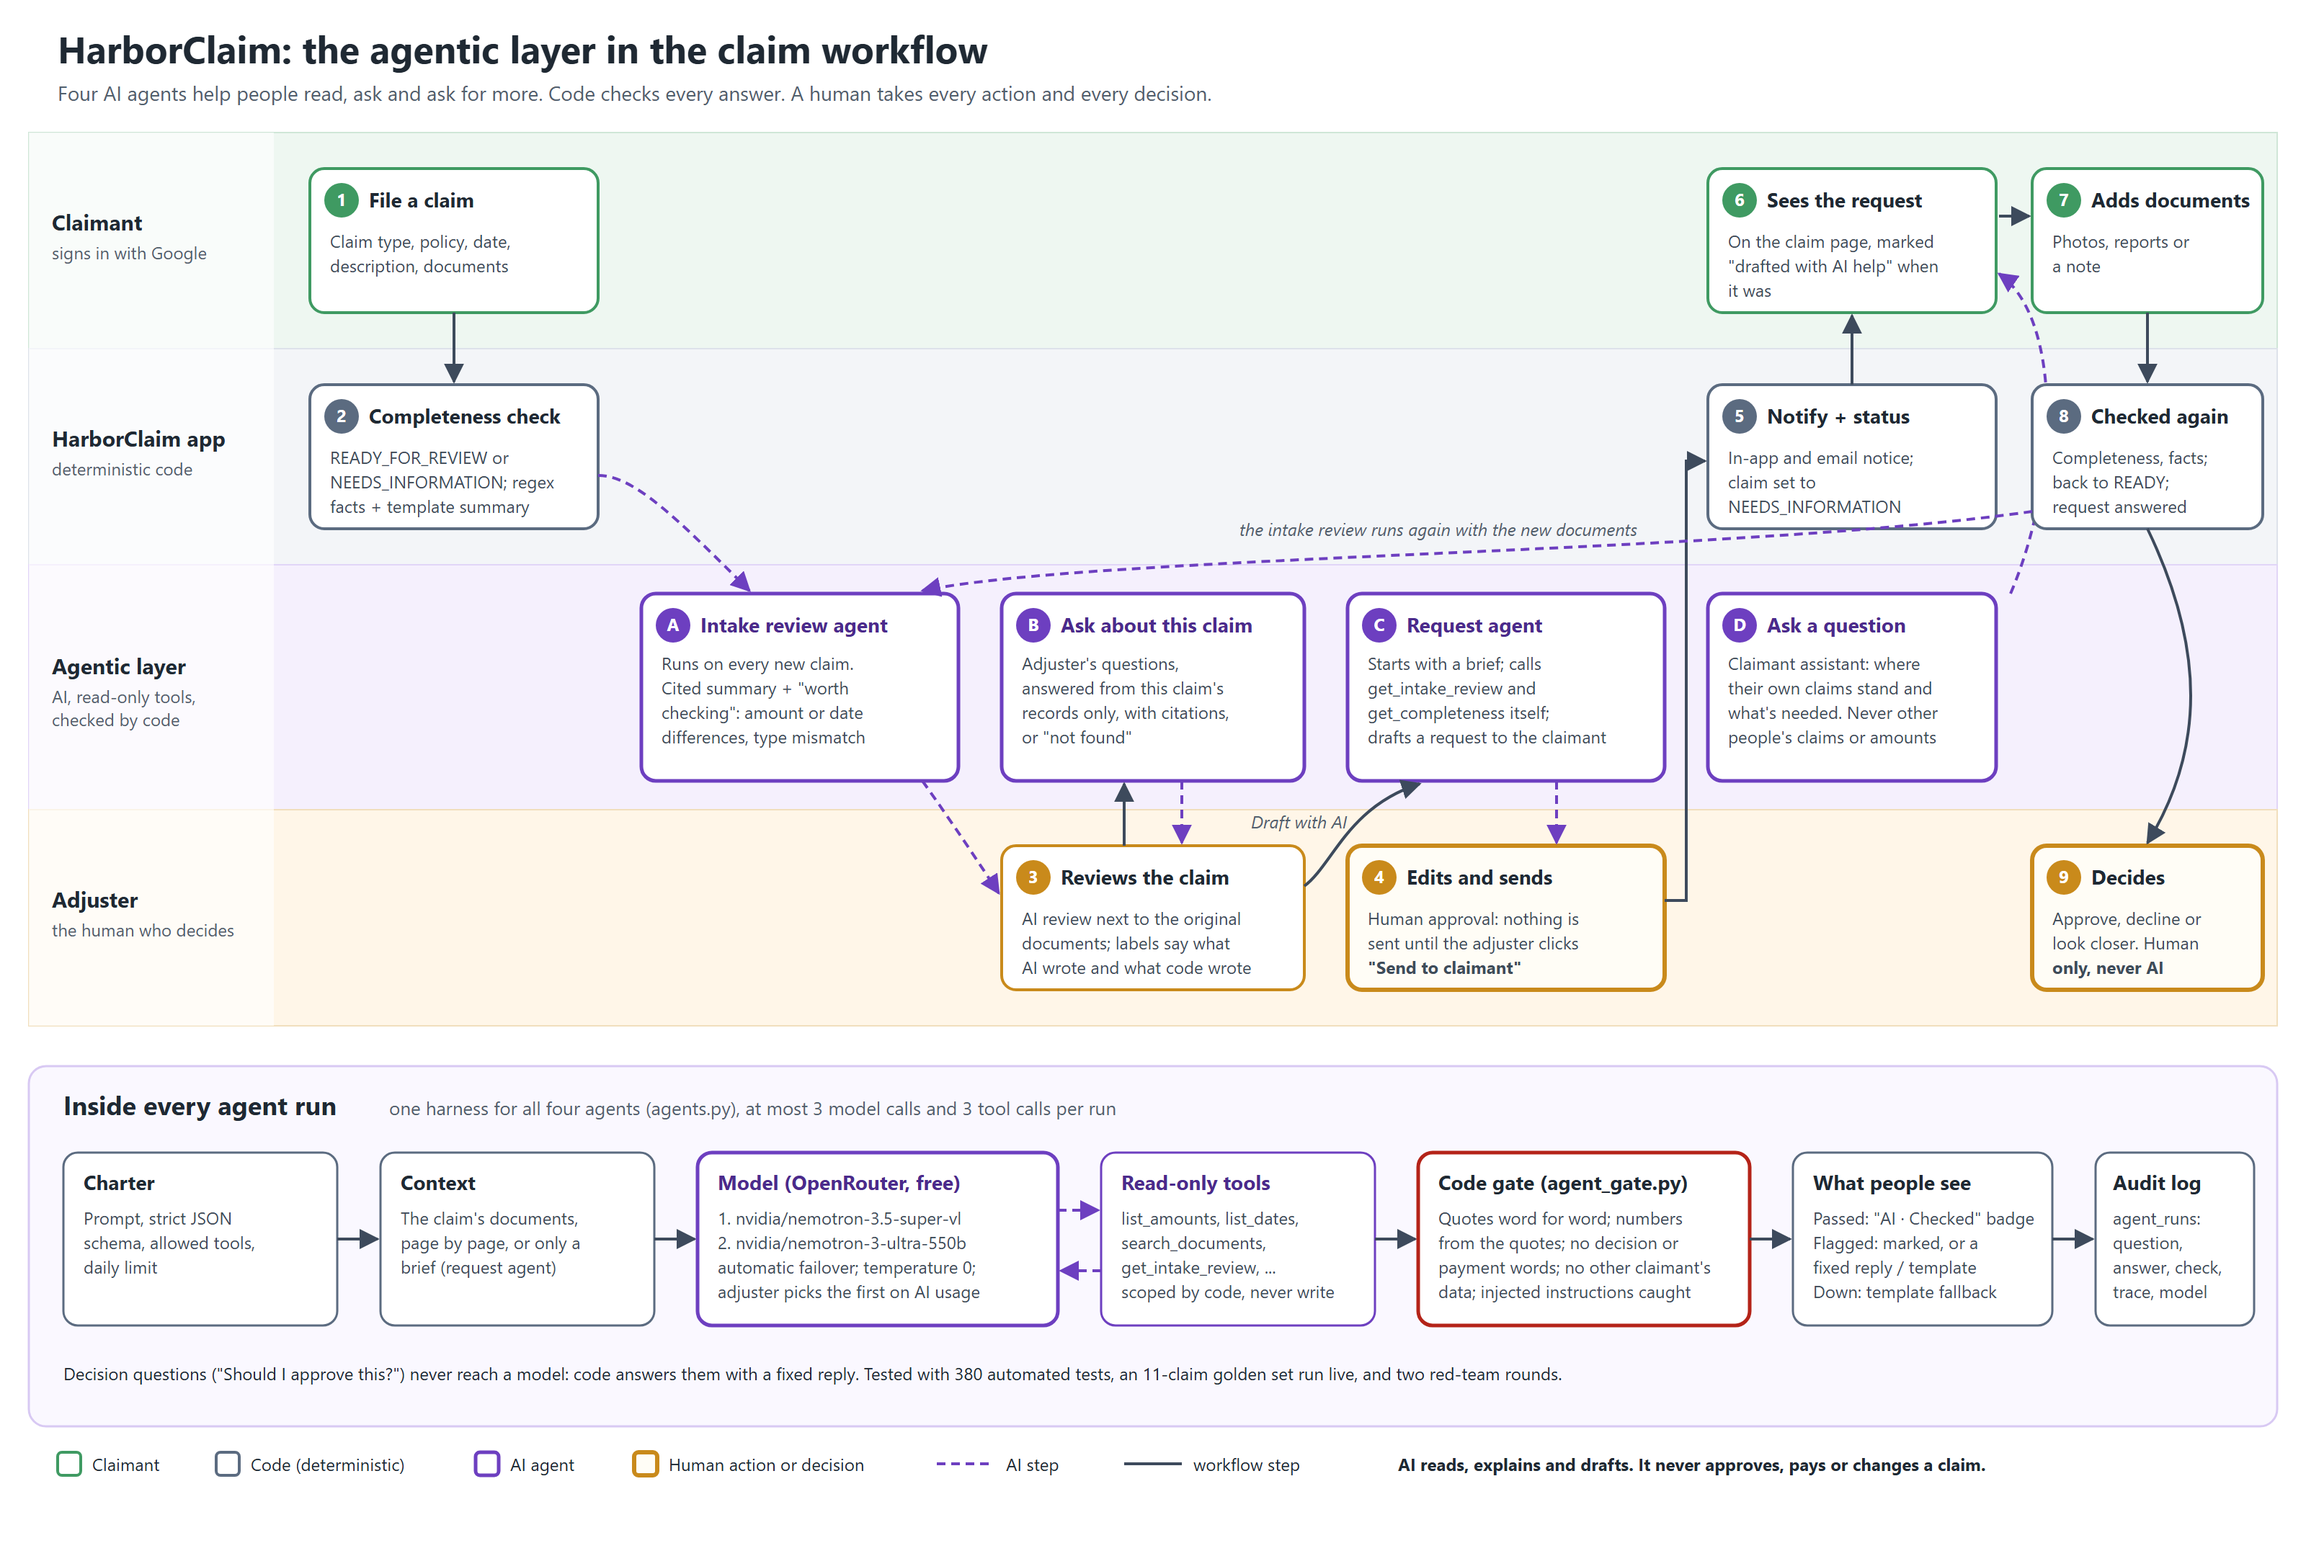
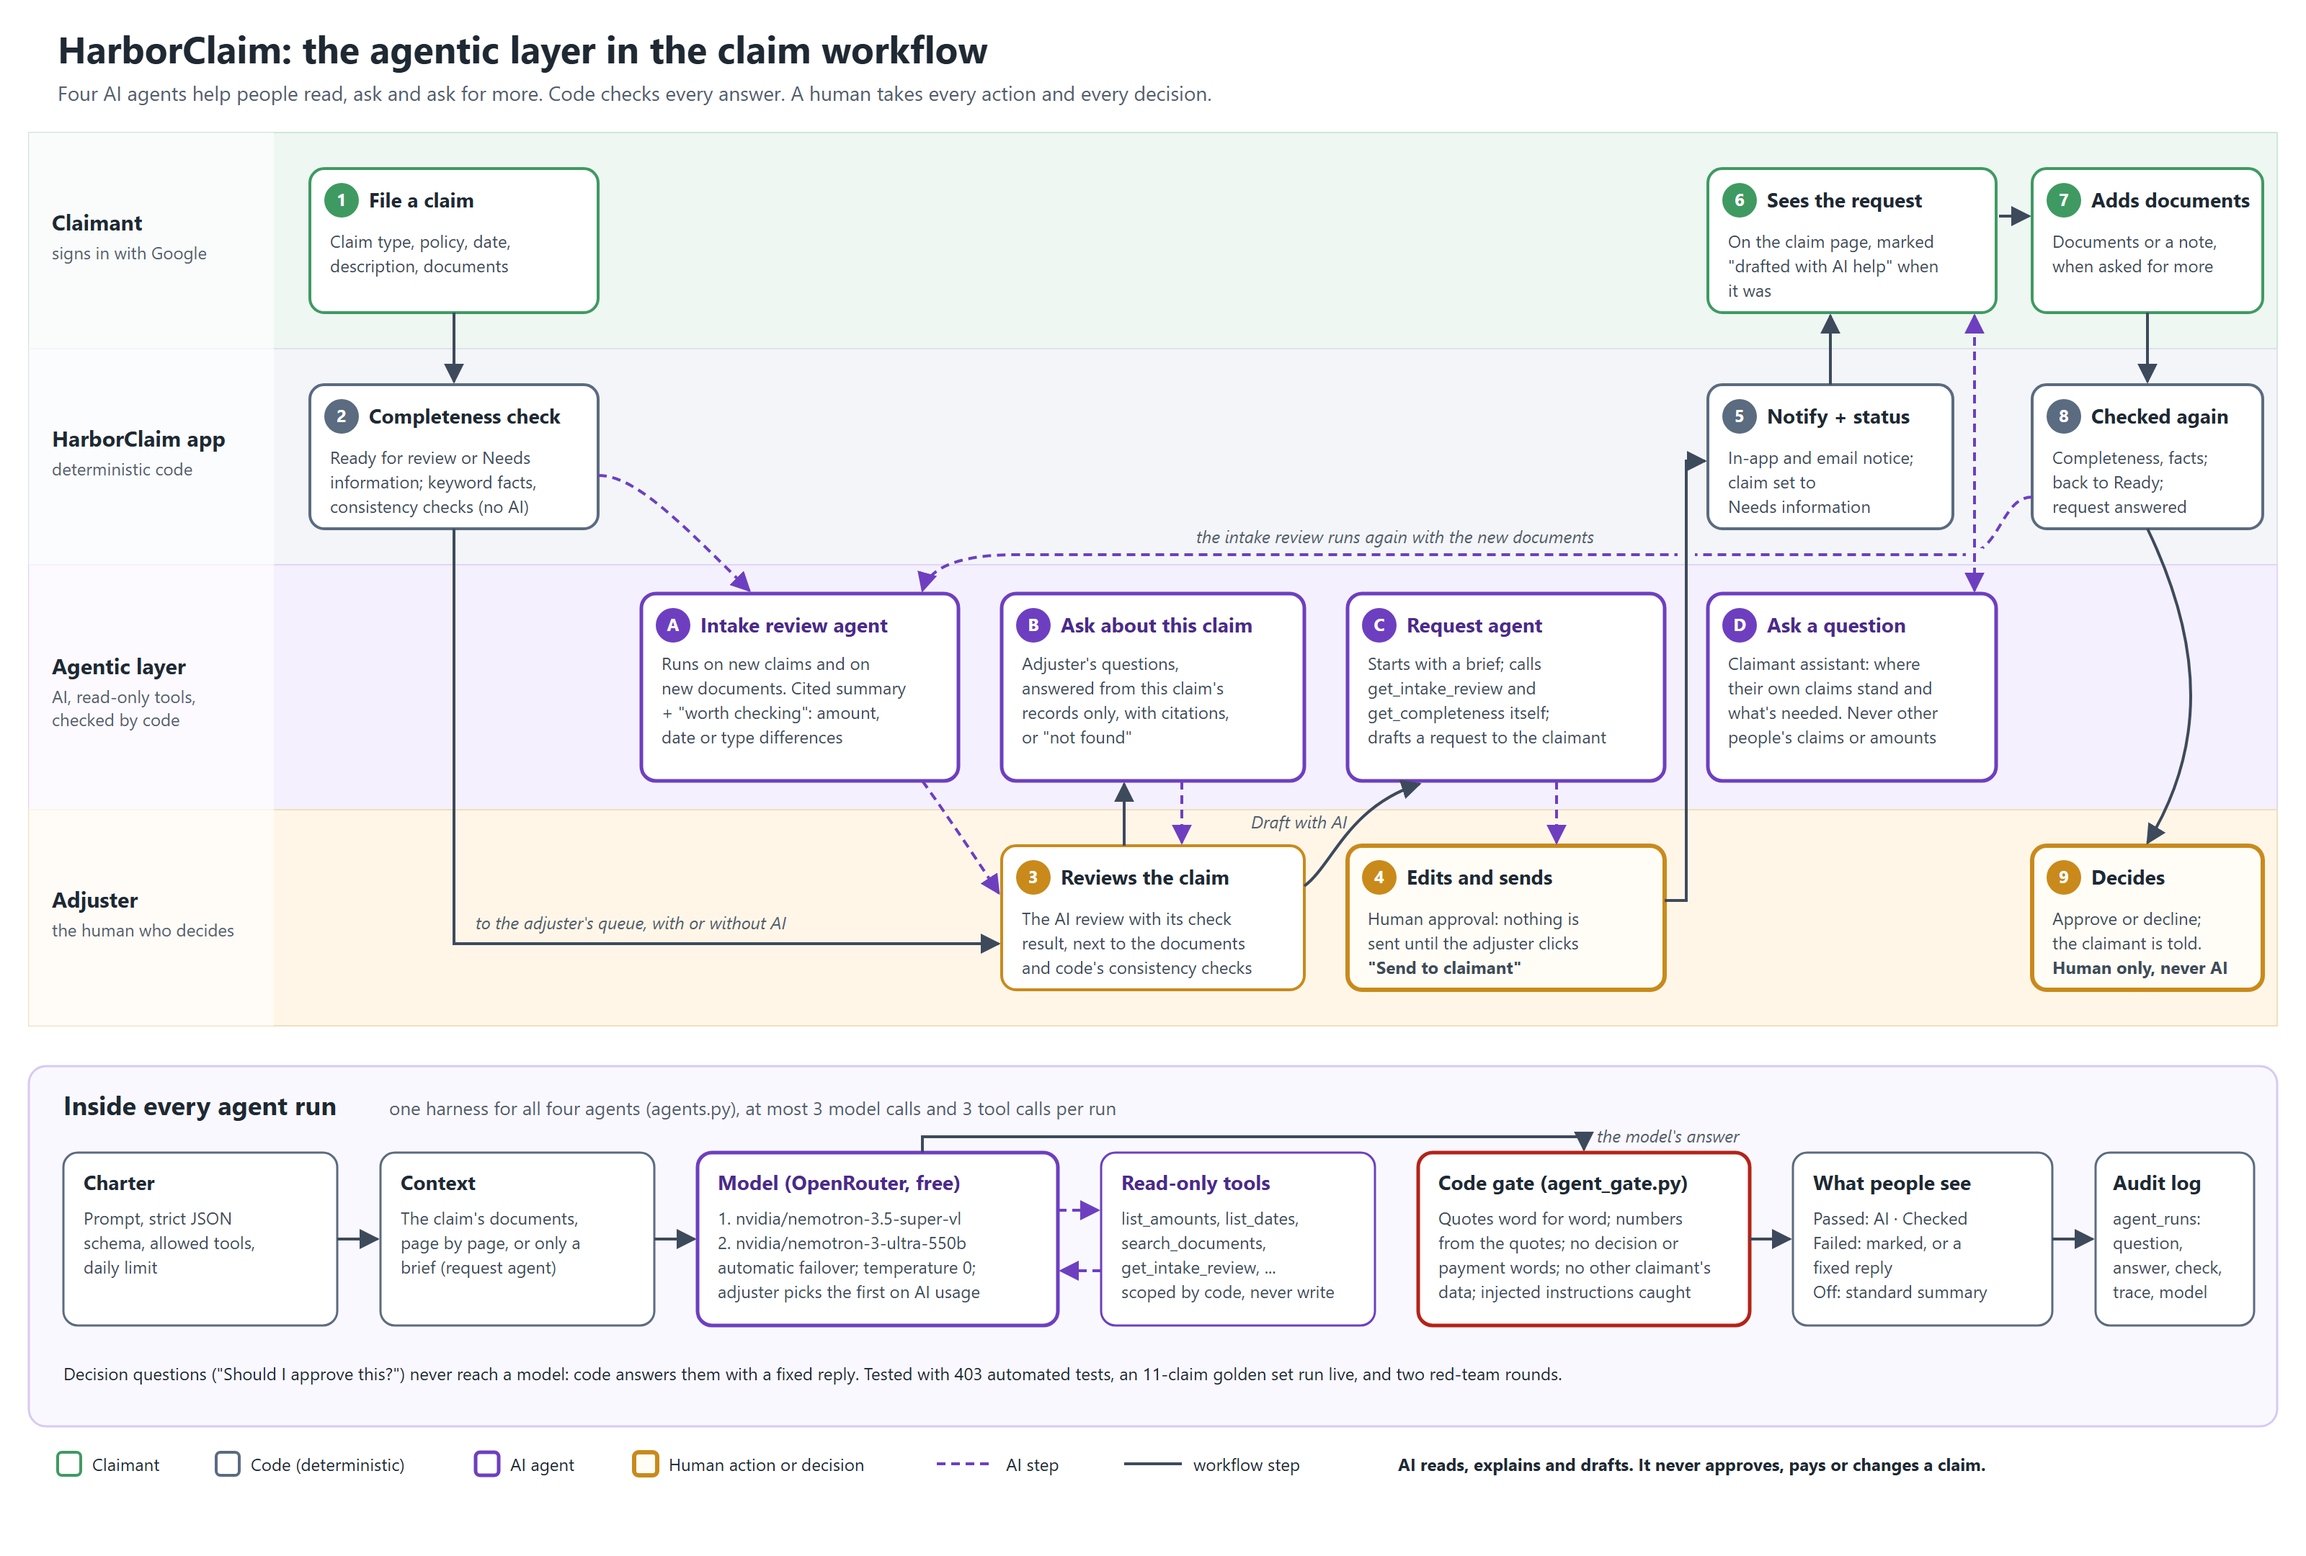
Diagram: fix arrow routing and direction, bring labels up to date
The re-review arrow ran through box 5 and the claimant-assistant arrow through box 8; both rerouted, the latter now two-headed. Inside every agent run, the model's answer (not the tools) goes to the gate. New path from the completeness check to the adjuster's queue, with or without AI. Plain status names, current label wording, 403 tests. AGENTIC-LAYER.md matches.

diff --git a/docs/design/AGENTIC-LAYER.md b/docs/design/AGENTIC-LAYER.md
@@ -20,18 +20,18 @@ adjuster, not the AI. Nothing an agent does can approve, pay or change a claim.
 | Step | Who | What happens |
 |---|---|---|
 | 1 | Claimant | Files a claim: type, policy, incident date, description, documents. |
-| 2 | Code | The completeness check marks it READY_FOR_REVIEW or NEEDS_INFORMATION; a regex scan pulls amounts and dates; a template summary is written as the fallback. |
+| 2 | Code | The completeness check marks it Ready for review or Needs information; a keyword scan pulls amounts and dates; code's consistency checks compare the claim type and date with the documents; a standard summary is written as the fallback. The claim goes to the adjuster's queue whether or not the AI runs. |
 | A | **Intake review agent** | Runs on every new claim, after the claimant's page has loaded. Writes a short summary and "worth checking" findings, e.g. *the description says $3,250.00 but the estimate totals $3,486.40*. Every sentence cites a document, page and word-for-word quote. |
 | 3 | Adjuster | Reviews the AI draft next to the original documents. Everything a model wrote carries the purple `AI` badge and its check result; anything without it is the app's own. |
 | B | **Ask about this claim** | The adjuster asks questions; answers come only from this claim's records, with citations, or "Not found in this claim's records." |
 | C | **Request agent** | When something is missing, the adjuster clicks *Draft with AI*. The agent starts with only a brief (claim form and file names), **decides to call its tools** (`get_intake_review`, `get_completeness`, `search_documents`) to find out what's missing and what's already there, and drafts a polite request. |
 | 4 | Adjuster | **Edits and sends.** Nothing is sent until the adjuster clicks *Send to claimant*. The app records whether the text came from the AI draft and whether the adjuster changed it. |
-| 5 | Code | Notifies the claimant (in-app and email) and sets the claim to NEEDS_INFORMATION. |
+| 5 | Code | Notifies the claimant (in-app and email) and sets the claim to Needs information. |
 | 6 | Claimant | Sees the request on their claim page, marked "drafted with AI help" when it was. |
-| D | **Ask a question** | The claimant assistant explains where their own claims stand and what's still needed. It never mentions anyone else's claim, amounts, or a decision that isn't on record. |
-| 7 | Claimant | Adds documents or a note. |
-| 8 | Code | Checks the claim again; it goes back to READY_FOR_REVIEW, the request is marked answered, and **the intake review agent runs again** with the new documents. |
-| 9 | Adjuster | Decides: approve, decline or look closer. Always a person; never an agent. |
+| D | **Ask a question** | The claimant asks; the assistant explains where their own claims stand and what's still needed. It never mentions anyone else's claim, amounts, or a decision that isn't on record. |
+| 7 | Claimant | Adds documents or a note, when asked for more. |
+| 8 | Code | Checks the claim again; it goes back to Ready for review, the request is marked answered, and **the intake review agent runs again** with the new documents. |
+| 9 | Adjuster | Decides: approve or decline, and the claimant is told; or marks it for more review. Always a person; never an agent. |
 
 ## What makes it agentic
 
@@ -57,9 +57,9 @@ All four agents share one harness (`agents.py`):
 5. **Code gate** (`agent_gate.py`, rules G1-G9 and C): quotes must be in the documents word for
    word; every number must come from the quotes; no decision, coverage, payment or accusation
    wording; no other claimant's claim or email; instructions planted in a document are caught.
-6. **What people see**: passed text gets the purple `AI` badge with "Checked"; flagged text
-   is marked, or replaced by a fixed reply or the template; a model that's down leaves the
-   template fallback in place.
+6. **What people see**: the model's answer goes to the gate, never straight to a page. Passed
+   text gets the purple `AI` badge with "Checked"; failed text is marked "Failed checks", or
+   replaced by a fixed reply; with the AI off or down, the standard summary shows with the reason.
 7. **Audit log**: every run, its question, answer, check result, trace, model and timing, in the
    append-only `agent_runs` table.
 
@@ -78,7 +78,7 @@ The workflow never depends on AI. With AI off, a model down, or the day's limit 
 
 ## Evidence it works
 
-- **380 automated tests** with a scripted fake model (no network): every gate rule, every label,
+- **403 automated tests** with a scripted fake model (no network): every gate rule, every label,
   the request loop end to end, separation of duties, and that drafting changes nothing.
 - **Golden set**: 11 fictional claims with known answers run live (`scripts/eval_agents.py`);
   used to choose the models and to keep out one that missed conflicts silently.
